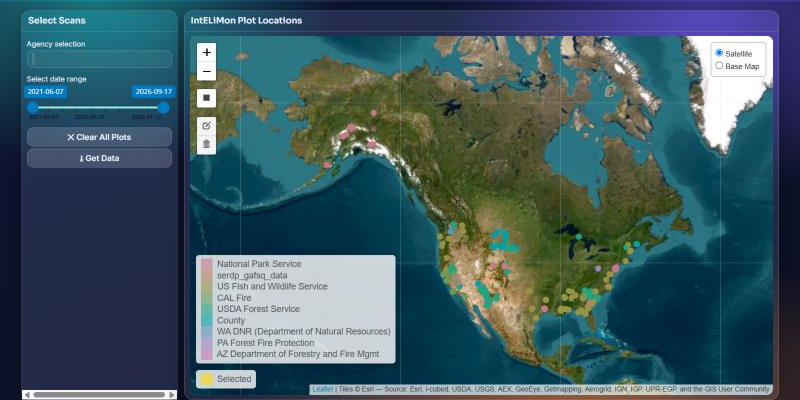
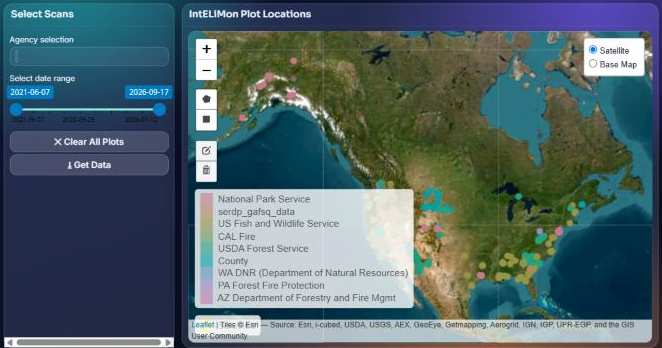
DEVELOP: polygon drawing tool and select plots inside a drawn shape
- Map card: polygon tool beside the rectangle tool (Selection Map and Fuels
  exports AOI); vertex handles 60% smaller than leaflet.draw's touch size.
- Selection Map: drawing a rectangle or polygon selects every plot inside it
  that passes the filters, then clears the shape (in_drawn_shape() in
  app/logic/map_fnc.R, with tests).
- Help: Selection Map section on drawing a shape with new screenshots;
  Fuels exports text covers polygons.

diff --git a/app/static/styles.css b/app/static/styles.css
@@ -85,6 +85,16 @@ table,.table,td,th{ color:var(--imn-text); }
    link does not reliably merge into it, so these styles are attached through
    the header rather than app/styles/main.scss. Edit styles here. */
 
+/* Vertex handles of the polygon and rectangle drawing tools. Leaflet.draw
+   uses 20px handles whenever the browser reports touch support; 60% smaller
+   (8px) keeps them from hiding the plots being outlined. */
+.leaflet-editing-icon.leaflet-touch-icon {
+  width: 8px !important;
+  height: 8px !important;
+  margin-left: -4px !important;
+  margin-top: -4px !important;
+}
+
 /* Center leaflet labels inside the circles, with a white halo for contrast */
 .plot-label {
   background: transparent !important;

diff --git a/app/static/help/03-selection-map.md b/app/static/help/03-selection-map.md
@@ -38,17 +38,17 @@ For local installations, scans may also be loaded from a folder using the
 Move the mouse over a numbered marker, or press Tab to step through them, to
 see what each part does.
 
-<div class="help-shot"><img src="static/help/images/selection-map-overview.png" alt="The Selection Map tab: the Select Scans panel on the left, and the map of all plots on the right" width="800">
-<span class="help-spot tip-right" tabindex="0" style="left:21%;top:14.5%">1<span class="help-tip"><b>Agency selection.</b> Pick one or more agencies to show only their plots. Leave it empty to show every agency.</span></span>
-<span class="help-spot tip-right" tabindex="0" style="left:21%;top:27%">2<span class="help-tip"><b>Select date range.</b> Drag either handle to show only scans collected between the two dates.</span></span>
-<span class="help-spot tip-right" tabindex="0" style="left:21%;top:34.5%">3<span class="help-tip"><b>Clear All Plots.</b> Removes every plot from the selection so you can start choosing again.</span></span>
-<span class="help-spot tip-right" tabindex="0" style="left:21%;top:39.5%">4<span class="help-tip"><b>Get Data.</b> Downloads the selected scans into your session. The other tabs use these data.</span></span>
-<span class="help-spot tip-right" tabindex="0" style="left:28.5%;top:15.5%">5<span class="help-tip"><b>Zoom in and out.</b> You can also zoom with the mouse wheel and pan by dragging the map.</span></span>
-<span class="help-spot tip-right" tabindex="0" style="left:28.5%;top:30%">6<span class="help-tip"><b>Draw rectangle/polygon.</b> Used to select multiple points.</span></span>
-<span class="help-spot tip-left" tabindex="0" style="left:87%;top:14.5%">7<span class="help-tip"><b>Satellite or Base Map.</b> Switch between satellite imagery and a plain gray map. Markers are easier to see on the Base Map.</span></span>
-<span class="help-spot tip-up" tabindex="0" style="left:48%;top:66%">8<span class="help-tip"><b>Legend.</b> The color of each agency's plots. Selected plots are gold; downloaded plots are blue.</span></span>
-<span class="help-spot tip-left" tabindex="0" style="left:66%;top:54%">9<span class="help-tip"><b>Plots.</b> Each dot is a plot. Zoom in and click a dot to select it; click it again to unselect it.</span></span>
-<span class="help-spot tip-right tip-up" tabindex="0" style="left:24.5%;top:95%">10<span class="help-tip"><b>Expand.</b> Shows the map full screen, partly hidden behind the legend in this corner. Press <b>Close</b> at the top right to return.</span></span>
+<div class="help-shot"><img src="static/help/images/selection-map-overview.png" alt="The Selection Map tab: the Select Scans panel on the left, and the map of all plots with its zoom, drawing and layer controls on the right" width="662">
+<span class="help-spot tip-right" tabindex="0" style="left:26%;top:16.4%">1<span class="help-tip"><b>Agency selection.</b> Pick one or more agencies to show only their plots. Leave it empty to show every agency.</span></span>
+<span class="help-spot tip-right" tabindex="0" style="left:26%;top:31%">2<span class="help-tip"><b>Select date range.</b> Drag either handle to show only scans collected between the two dates.</span></span>
+<span class="help-spot tip-right" tabindex="0" style="left:26%;top:40.5%">3<span class="help-tip"><b>Clear All Plots.</b> Removes every plot from the selection so you can start choosing again.</span></span>
+<span class="help-spot tip-right" tabindex="0" style="left:26%;top:47.1%">4<span class="help-tip"><b>Get Data.</b> Downloads the selected scans into your session. The other tabs use these data.</span></span>
+<span class="help-spot tip-right" tabindex="0" style="left:33.2%;top:16.7%">5<span class="help-tip"><b>Zoom in and out.</b> You can also zoom with the mouse wheel and pan by dragging the map.</span></span>
+<span class="help-spot tip-right" tabindex="0" style="left:33.2%;top:31%">6<span class="help-tip"><b>Draw a polygon or rectangle.</b> Every plot inside the shape is selected at once.</span></span>
+<span class="help-spot tip-left" tabindex="0" style="left:88.4%;top:16.4%">7<span class="help-tip"><b>Satellite or Base Map.</b> Switch between satellite imagery and a plain gray map. Markers are easier to see on the Base Map.</span></span>
+<span class="help-spot tip-left" tabindex="0" style="left:63.4%;top:70.4%">8<span class="help-tip"><b>Legend.</b> The color of each agency's plots. Selected plots are gold; downloaded plots are blue.</span></span>
+<span class="help-spot tip-left" tabindex="0" style="left:87.6%;top:66%">9<span class="help-tip"><b>Plots.</b> Each dot is a plot. Zoom in and click a dot to select it; click it again to unselect it.</span></span>
+<span class="help-spot tip-right tip-up" tabindex="0" style="left:28.7%;top:96.3%">10<span class="help-tip"><b>Expand.</b> Shows the map full screen, partly hidden behind the legend in this corner. Press <b>Close</b> at the top right to return.</span></span>
 </div>
 
 1. **Agency selection**: shows only the chosen agencies' plots.
@@ -56,7 +56,7 @@ see what each part does.
 3. **Clear All Plots**: empties the selection.
 4. **Get Data**: downloads the selected scans.
 5. **Zoom buttons**: zoom in and out (the mouse wheel works too).
-6. **Draw rectangle/polygon**: used to select multiple points.
+6. **Draw polygon / rectangle**: select every plot inside a shape.
 7. **Satellite / Base Map**: switches the background map.
 8. **Legend**: agency colors, plus gold for selected and blue for
    downloaded plots.
@@ -135,6 +135,38 @@ plots scanned from June 2023 onward remain.
 The dots are small. If a click doesn't select a plot, zoom in further and
 click the center of the dot.
 
+#### Select many plots at once by drawing a shape
+
+<div class="help-shot"><img src="static/help/images/selection-map-draw-polygon.png" alt="A polygon being drawn around plots 0020, 0009, 0010 and 0019, with the Finish, Delete last point and Cancel buttons beside the polygon tool" width="490">
+<span class="help-spot tip-right" tabindex="0" style="left:4.5%;top:28.5%">1<span class="help-tip"><b>Polygon tool.</b> Click it, then click the map at each corner of the shape.</span></span>
+<span class="help-spot tip-right" tabindex="0" style="left:4.5%;top:37%">2<span class="help-tip"><b>Rectangle tool.</b> Click it, then drag across the plots.</span></span>
+<span class="help-spot tip-right" tabindex="0" style="left:49%;top:28.9%">3<span class="help-tip"><b>Finish</b> closes the polygon; <b>Delete last point</b> takes back a corner; <b>Cancel</b> stops drawing.</span></span>
+<span class="help-spot tip-left" tabindex="0" style="left:45.9%;top:48.5%">4<span class="help-tip">Click the <b>first point</b> again to close the shape.</span></span>
+<span class="help-spot tip-left" tabindex="0" style="left:59.2%;top:70.5%">5<span class="help-tip">Every plot inside the shape will be selected.</span></span>
+</div>
+
+1. Zoom so the plots you want are in view.
+2. Pick a tool on the left of the map:
+   - **Polygon** (the pentagon): click the map at each corner of the shape.
+     Click the first corner again, or click **Finish**, to close it.
+     **Delete last point** takes back a corner; **Cancel** stops drawing.
+     Edges can't cross each other.
+   - **Rectangle** (the square): click, then drag across the plots.
+3. When the shape is closed, every plot inside it turns **gold**, with all
+   of its scans inside the date range, as if you had clicked each one. A
+   message says how many plots were added.
+
+<div class="help-shot"><img src="static/help/images/selection-map-draw-selected.png" alt="After drawing the polygon: plots 0020, 0009, 0010 and 0019 are gold and a message reads Selected 4 plots inside the drawn shape" width="498">
+<span class="help-spot tip-left" tabindex="0" style="left:68.5%;top:39.8%">1<span class="help-tip">The four plots inside the shape are now <b>selected</b> (gold).</span></span>
+<span class="help-spot tip-right tip-up" tabindex="0" style="left:27%;top:95.5%">2<span class="help-tip">A message counts the plots added.</span></span>
+<span class="help-spot tip-right" tabindex="0" style="left:20.5%;top:62.5%">3<span class="help-tip"><b>Selected</b> in the legend.</span></span>
+</div>
+
+The shape disappears once its plots are selected, so you can draw another
+one to add more. A shape only adds plots: plots already selected stay
+selected, and the message counts them separately. To take a plot out, click
+it. Only plots that pass the agency and date filters are selected.
+
 ### Step 5: Get the data
 
 <div class="help-shot"><img src="static/help/images/selection-map-progress.png" alt="Progress message: Getting data from 3 new scans at 3 plots" width="295"></div>
@@ -172,7 +204,7 @@ It also appears when every selected scan has already been downloaded.
 
 | Symbol | Meaning |
 |---|---|
-| Dot in an agency color | A plot that matches the filters; click to select it |
+| Dot in an agency color | A plot that matches the filters; click it, or draw a shape around it, to select it |
 | Gold dot | A selected plot |
 | Blue dot | A selected plot whose scans are downloaded |
 | Number beside a dot | The plot number, shown when zoomed in |

diff --git a/app/static/help/07-fuels-exports.md b/app/static/help/07-fuels-exports.md
@@ -38,7 +38,7 @@ see what each part does.
 <span class="help-spot tip-left" tabindex="0" style="left:53%;top:60.4%">13<span class="help-tip"><b>Derived from.</b> Where each dead fuel load comes from: Auto, the time lag count, or the fuel model scaled to the fuel bed depth.</span></span>
 <span class="help-spot tip-left tip-up" tabindex="0" style="left:55%;top:85.6%">14<span class="help-tip"><b>Notes.</b> How many scans are averaged and where values had to fall back to another source.</span></span>
 <span class="help-spot tip-left tip-up" tabindex="0" style="left:55%;top:96%">15<span class="help-tip"><b>Submit fuels to rothRmel.</b> Sends each scan's loadings and the canopy values to the rothRmel tab.</span></span>
-<span class="help-spot tip-right" tabindex="0" style="left:68.5%;top:46.2%">16<span class="help-tip"><b>Drawing tools.</b> Draw a rectangle to widen the area the fuel raster covers; edit or delete it below.</span></span>
+<span class="help-spot tip-right" tabindex="0" style="left:68.5%;top:46.2%">16<span class="help-tip"><b>Drawing tools.</b> Draw a polygon or rectangle to widen the area the fuel raster covers; edit or delete it below.</span></span>
 <span class="help-spot tip-left" tabindex="0" style="left:97%;top:30.3%">17<span class="help-tip"><b>Fuel raster export.</b> Builds the LANDFIRE landscape (LCP and GeoTIFF) around the plots.</span></span>
 <span class="help-spot tip-left" tabindex="0" style="left:97%;top:37.5%">18<span class="help-tip"><b>Download FastFuels / FCCS.</b> Not available yet: these buttons don't do anything.</span></span>
 </div>
@@ -60,7 +60,7 @@ see what each part does.
 13. **Derived from**: the source of each dead fuel load.
 14. **Notes** on averages and fallbacks.
 15. **Submit fuels to rothRmel**.
-16. **Drawing tools** for the raster area.
+16. **Drawing tools** (polygon and rectangle) for the raster area.
 17. **Fuel raster export**.
 18. **Download FastFuels / FCCS**: not available yet.
 
@@ -204,15 +204,18 @@ fuel model, canopy cover, stand height, canopy base height and canopy bulk
 density, from LANDFIRE (LF2024 fuels and canopy, LF2020 topography).
 
 <div class="help-shot"><img src="static/help/images/fuels-aoi-map.png" alt="The map with a drawn area of interest rectangle, the drawing tools and the export buttons" width="280">
-<span class="help-spot tip-right" tabindex="0" style="left:16%;top:26.5%">1<span class="help-tip"><b>Draw a rectangle.</b> Click, then drag on the map.</span></span>
-<span class="help-spot tip-right" tabindex="0" style="left:16%;top:39%">2<span class="help-tip"><b>Edit</b> or <b>delete</b> the rectangle.</span></span>
+<span class="help-spot tip-right" tabindex="0" style="left:16%;top:26.5%">1<span class="help-tip"><b>Draw a shape.</b> The rectangle tool: click, then drag on the map. The polygon tool sits above it: click each corner, then the first corner again to close.</span></span>
+<span class="help-spot tip-right" tabindex="0" style="left:16%;top:39%">2<span class="help-tip"><b>Edit</b> or <b>delete</b> the shape.</span></span>
 <span class="help-spot tip-right" tabindex="0" style="left:34%;top:54%">3<span class="help-tip">The <b>area of interest</b>. The landscape covers it as well as the plots.</span></span>
 <span class="help-spot tip-left" tabindex="0" style="left:80%;top:4%">4<span class="help-tip"><b>Fuel raster export</b> builds the landscape.</span></span>
 </div>
 
 1. **Optional:** draw an area of interest. Click the square tool on the map
-   and drag a rectangle. A message confirms its size. The landscape always
-   covers the selected plots plus 2 km around them; the rectangle widens it.
+   and drag a rectangle, or click the pentagon tool and click each corner of
+   a polygon, then the first corner again to close it. A message confirms
+   its size. The landscape always covers the selected plots plus 2 km around
+   them; the shape widens it to the shape's full extent, and the canopy
+   corrections are worked out over the area inside the shape.
 2. Click **Fuel raster export**.
 3. Enter a contact email the first time. LANDFIRE requires one for every
    request:
